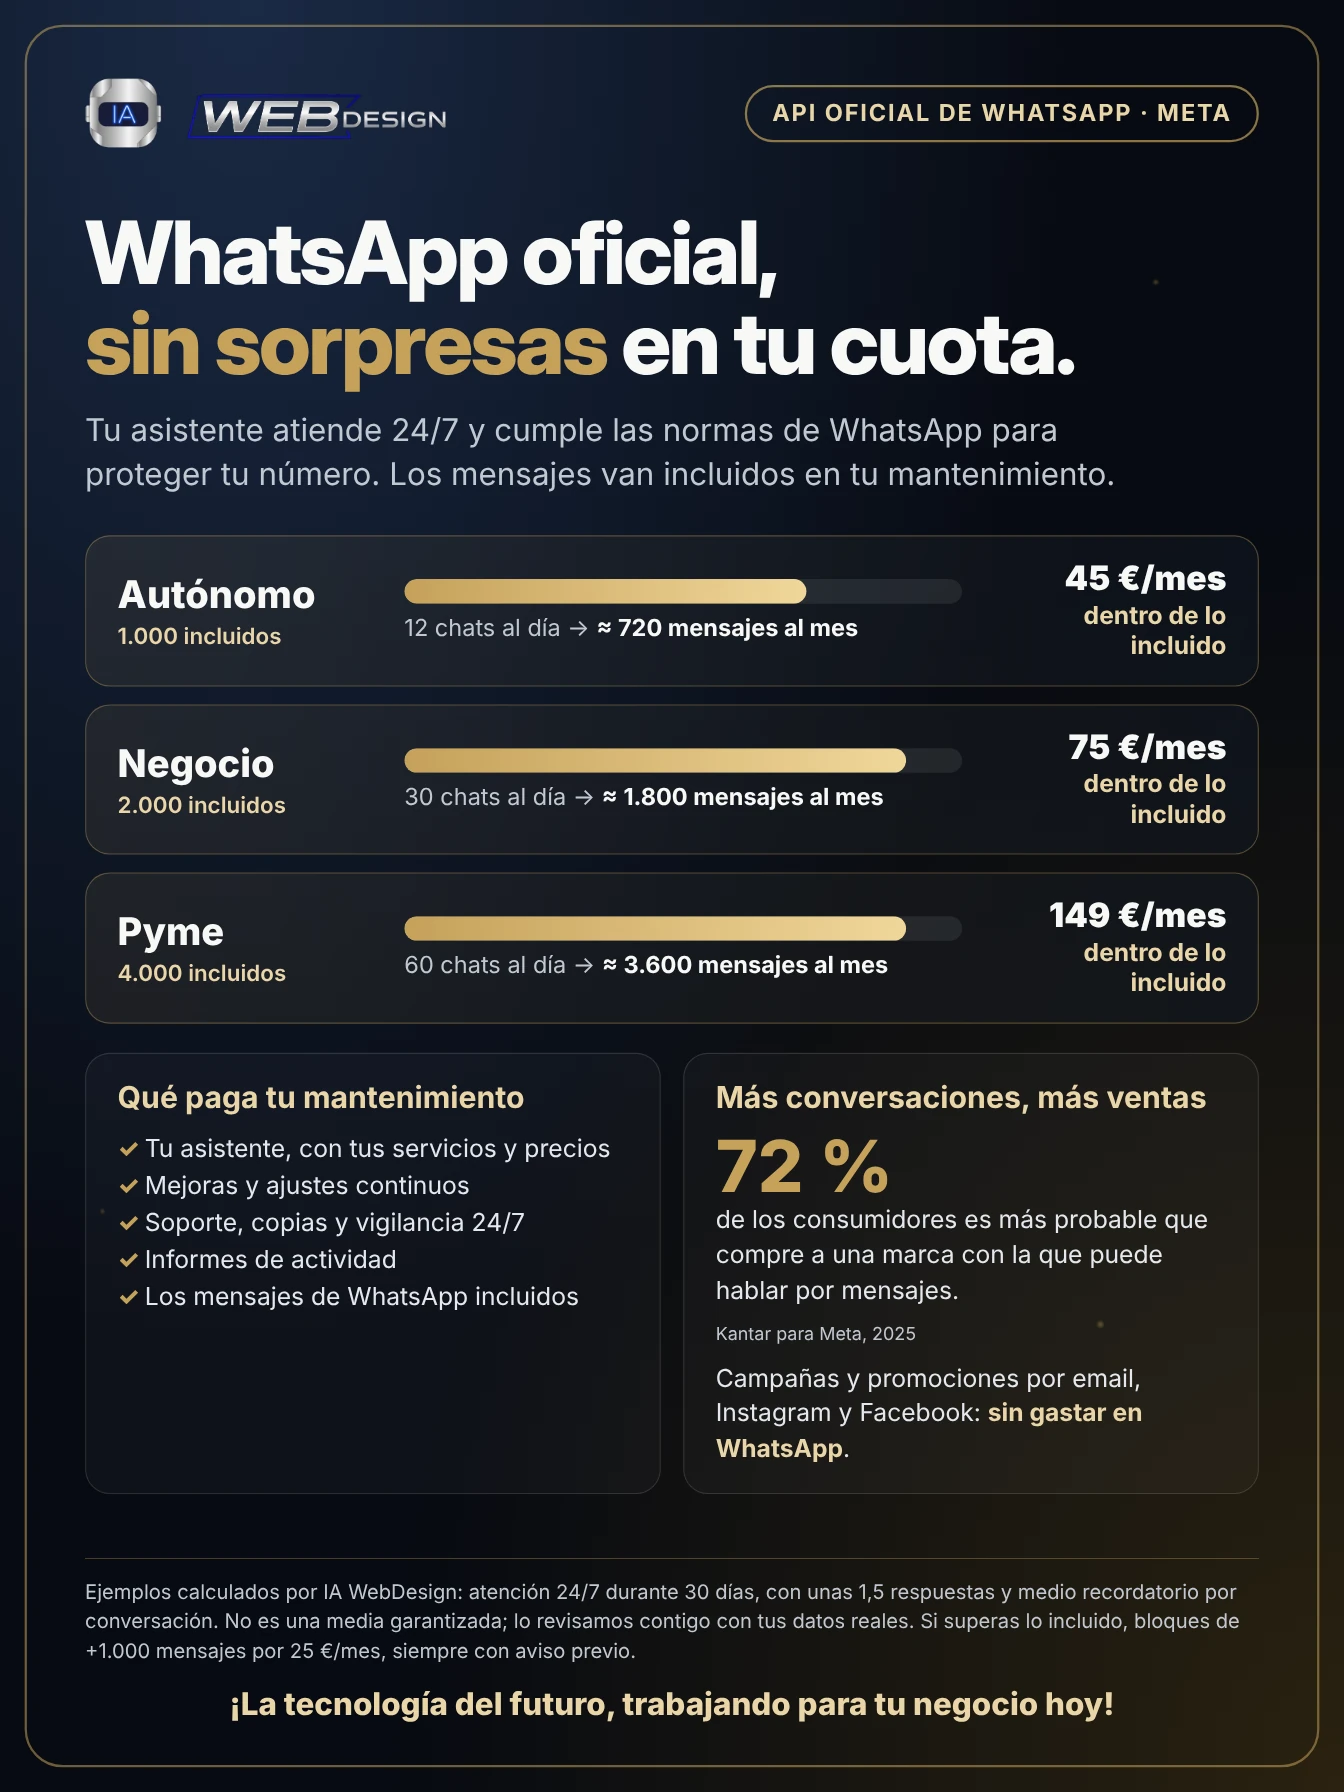
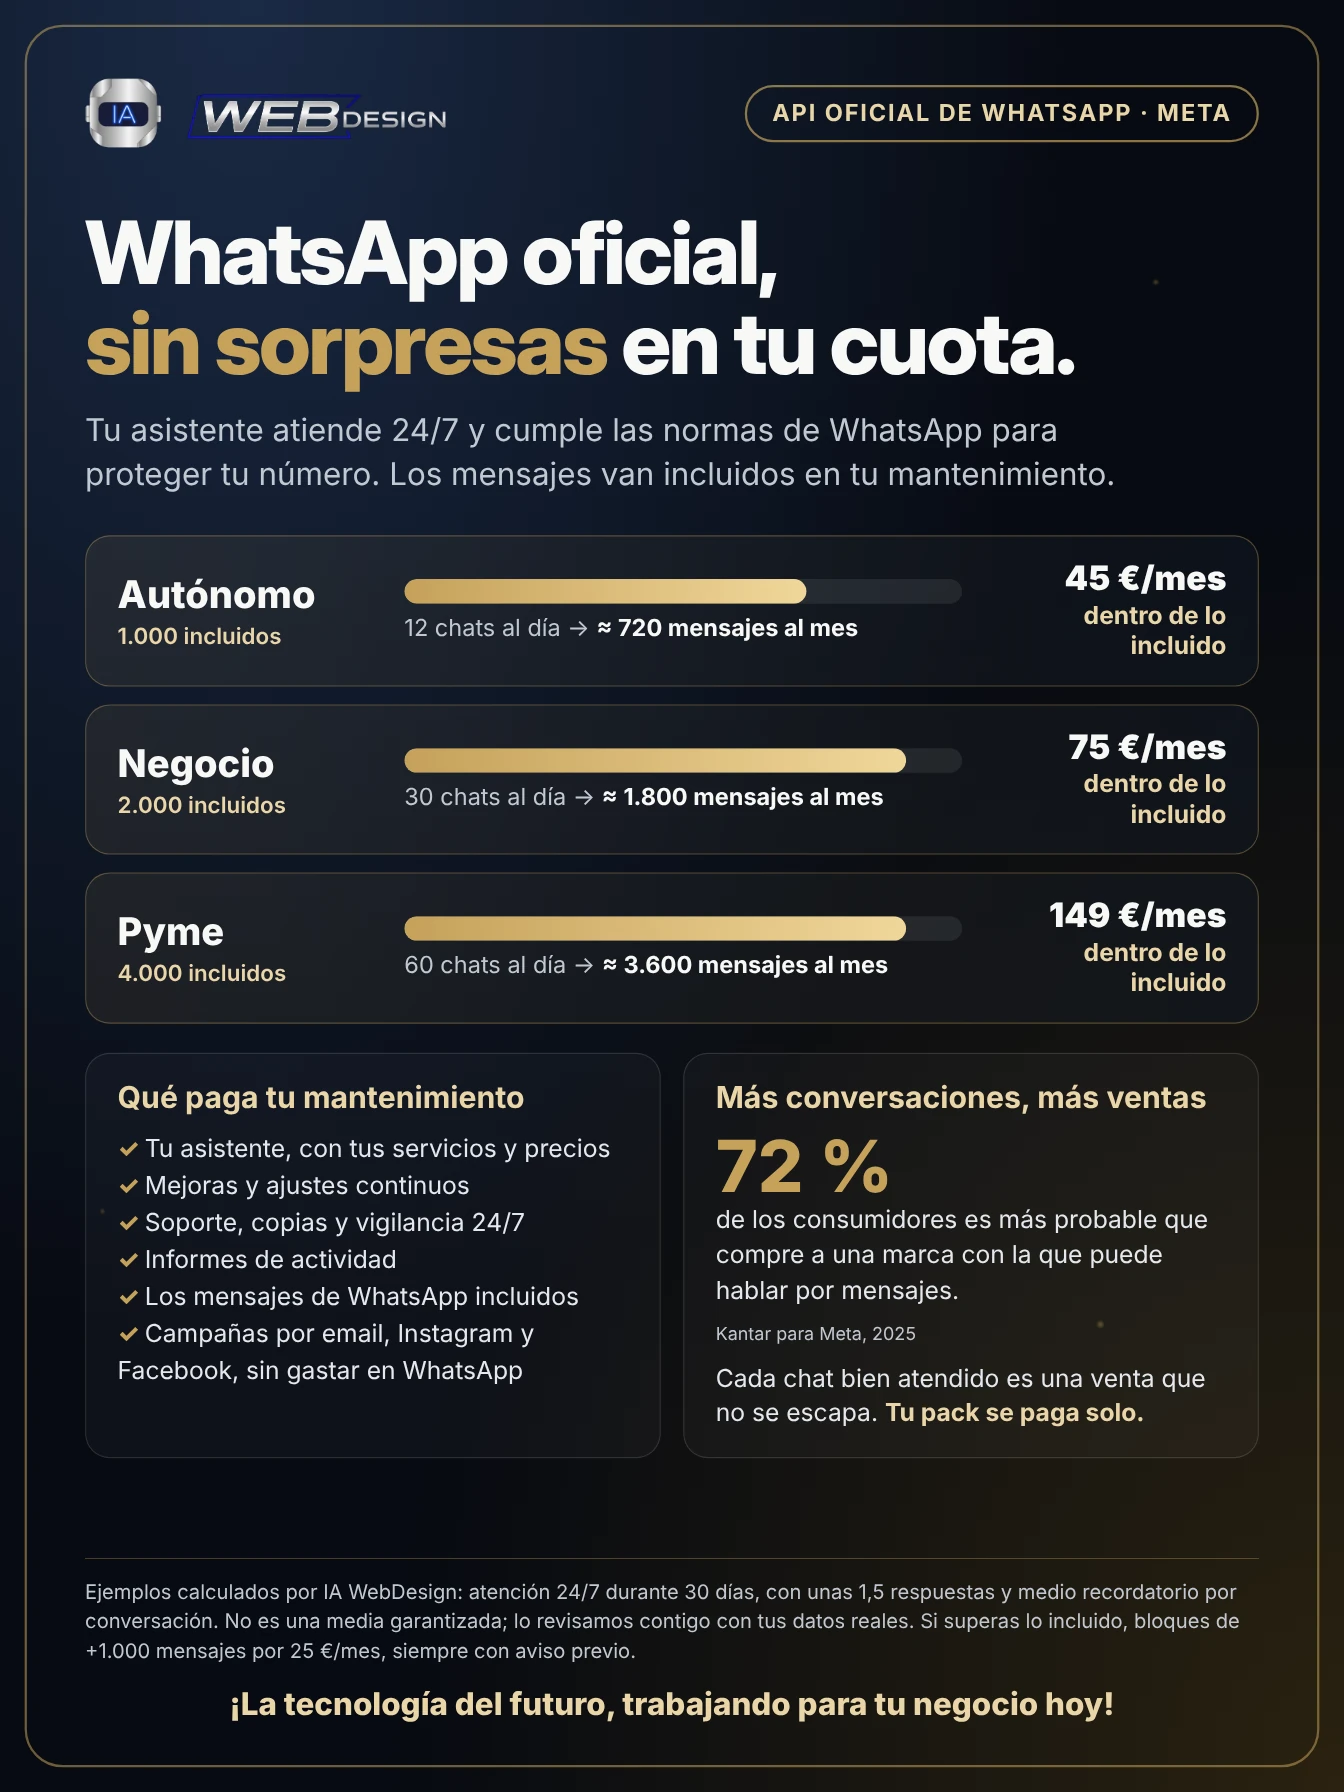
Packs (sin publicar): «tu pack se paga solo» en la imagen y calculadora con ticket medio y ventas necesarias
Claude-Session: https://claude.ai/code/session_01J2uDKL2pYzdRMqd9DHqHAr

Changed region(s): [[0.5312, 0.75, 0.875, 0.8125], [0.0938, 0.7188, 0.375, 0.7812]]

diff --git a/index.html b/index.html
@@ -578,9 +578,10 @@ img { height:auto; }
 <p class="wa-small">Precio mensual del mantenimiento. Cada bloque de 1.000 mensajes más suma 25 €/mes, y siempre te avisamos antes. La atención por tu web, email y Telegram no tiene límite. Las tarifas de WhatsApp las fija Meta; si cambian, te lo comunicamos con antelación.</p></div>
 <div class="wa-calc" aria-label="Calculadora de mensajes"><strong>Calcula tu caso</strong>
 <div class="wa-calc-row"><label>Chats al día <input id="waChats" type="number" min="0" max="2000" value="15" inputmode="numeric"></label>
-<label>Pack <select id="waPack"><option value="45|1000">Autónomo</option><option value="75|2000" selected>Negocio</option><option value="149|4000">Pyme</option></select></label></div>
+<label>Pack <select id="waPack"><option value="45|1000">Autónomo</option><option value="75|2000" selected>Negocio</option><option value="149|4000">Pyme</option></select></label>
+<label>Ticket medio de una venta (€) <input id="waTicket" type="number" min="1" max="100000" value="30" inputmode="numeric"></label></div>
 <p id="waResultado" class="wa-result" aria-live="polite"></p>
-<p class="wa-small">Atención 24/7: 30 días al mes, unas 1,5 respuestas y medio recordatorio por conversación.</p></div>
+<p class="wa-small">Atención 24/7: 30 días al mes, unas 1,5 respuestas y medio recordatorio por conversación. «Ventas extra» = clientes que, sin respuesta rápida, se habrían ido a otro sitio.</p></div>
 </div>
 </div>
 </section><section class="final-cta" id="contacto">
@@ -660,12 +661,14 @@ img { height:auto; }
 })();
 </script>
 <script>
-(function(){var c=document.getElementById('waChats'),p=document.getElementById('waPack'),r=document.getElementById('waResultado');if(!c||!p||!r)return;
+(function(){var c=document.getElementById('waChats'),p=document.getElementById('waPack'),t=document.getElementById('waTicket'),r=document.getElementById('waResultado');if(!c||!p||!r)return;
 var nf;try{nf=new Intl.NumberFormat('es-ES',{useGrouping:'always'})}catch(e){nf=new Intl.NumberFormat('es-ES')}function fmt(n){return nf.format(n)}
 function calc(){var chats=Math.max(0,Math.min(2000,parseInt(c.value,10)||0));var v=p.value.split('|'),base=+v[0],inc=+v[1];
 var msgs=Math.round(chats*30*2);var bloques=Math.max(0,Math.ceil((msgs-inc)/1000));var total=base+bloques*25;
-r.innerHTML='≈ <b>'+fmt(msgs)+' mensajes al mes</b>. '+(bloques?'Tu mantenimiento: <b>'+fmt(total)+' €/mes</b> ('+bloques+' bloque'+(bloques>1?'s':'')+' de 1.000 añadido'+(bloques>1?'s':'')+').':'Tu mantenimiento: <b>'+fmt(base)+' €/mes</b>, dentro de lo incluido.');}
-c.addEventListener('input',calc);p.addEventListener('change',calc);calc();})();
+r.innerHTML='≈ <b>'+fmt(msgs)+' mensajes al mes</b>. '+(bloques?'Tu mantenimiento: <b>'+fmt(total)+' €/mes</b> ('+bloques+' bloque'+(bloques>1?'s':'')+' de 1.000 añadido'+(bloques>1?'s':'')+').':'Tu mantenimiento: <b>'+fmt(base)+' €/mes</b>, dentro de lo incluido.');
+var tk=Math.max(1,parseInt(t&&t.value,10)||30),ventas=Math.ceil(total/tk),pct=chats?Math.max(1,Math.ceil(ventas*100/(chats*30))):0;
+r.innerHTML+='<br>Con un ticket medio de '+fmt(tk)+' €, te bastan <b>'+fmt(ventas)+' venta'+(ventas>1?'s':'')+' extra al mes</b> para cubrir tu cuota'+(chats?' (menos del '+pct+' % de tus chats)':'')+'. <b>Tu pack se paga solo.</b>';}
+c.addEventListener('input',calc);p.addEventListener('change',calc);if(t)t.addEventListener('input',calc);calc();})();
 </script>
 </body>
 </html>
